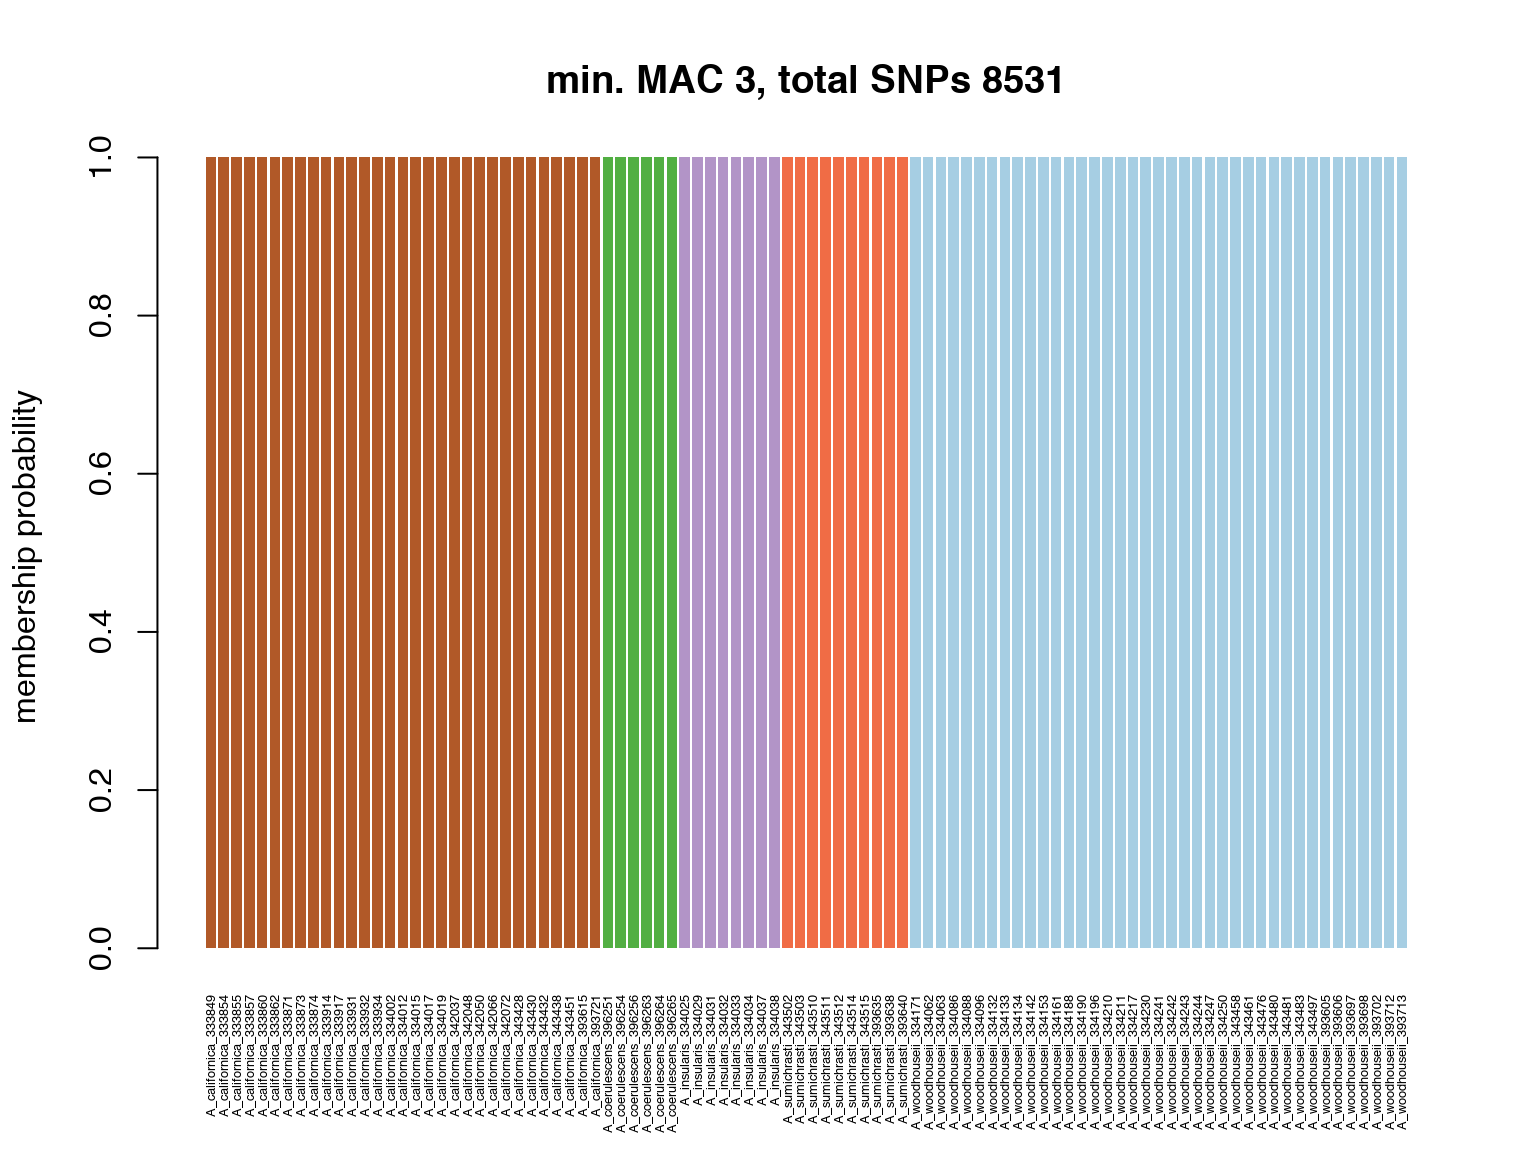
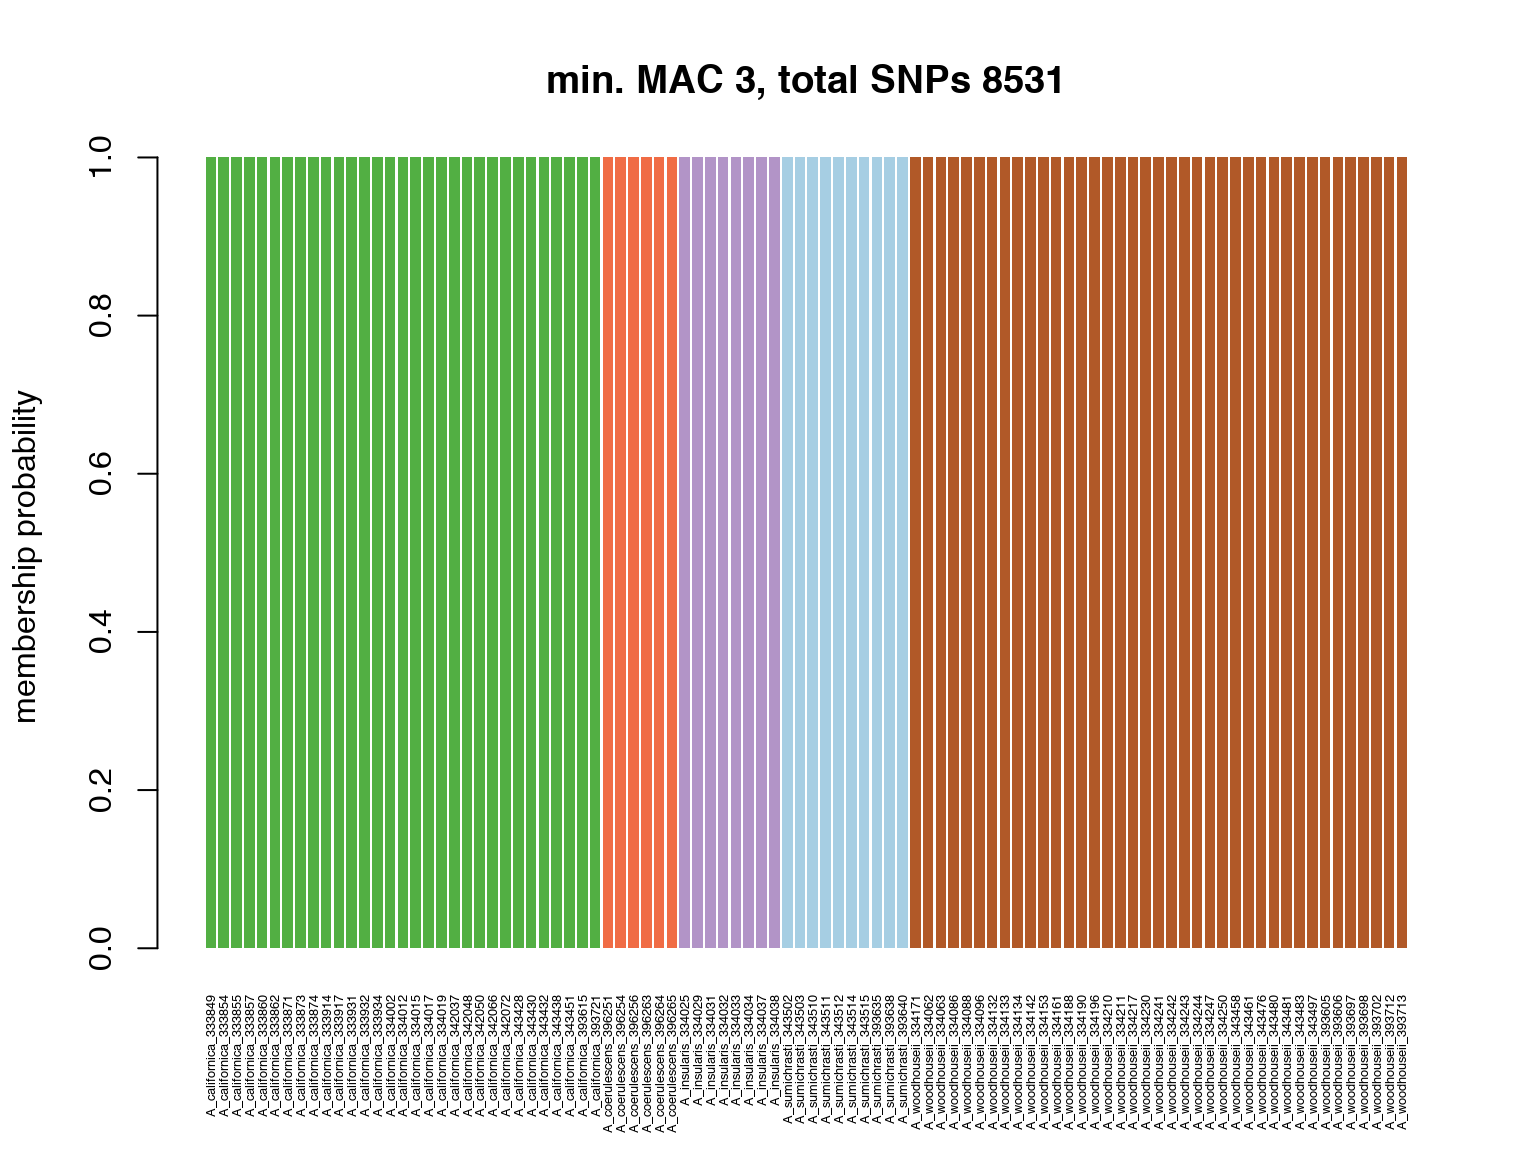
update website

diff --git a/docs/articles/filtering_vignette.html b/docs/articles/filtering_vignette.html
@@ -231,60 +231,60 @@ vcfR&lt;-missing.by.snp(vcfR, cutoff = .85)</code></pre>
 #&gt;            
 #&gt;              1  2  3  4  5
 #&gt;   californi  0 31  0  0  0
-#&gt;   coerulesc  6  0  0  0  0
-#&gt;   insularis  0  0  0  0  8
-#&gt;   sumichras  0  0  0 10  0
-#&gt;   woodhouse  0  0 39  0  0</code></pre>
+#&gt;   coerulesc  0  0  0  6  0
+#&gt;   insularis  0  0  8  0  0
+#&gt;   sumichras 10  0  0  0  0
+#&gt;   woodhouse  0  0  0  0 39</code></pre>
 <p><img src="filtering_vignette_files/figure-html/unnamed-chunk-11-2.png" width="768" style="display: block; margin: auto;"></p>
 <pre><code>#&gt; [1] "DAPC with min. MAC 1 and 16208 total SNPs, complete"
 #&gt; [1] "for 2 minimum MAC cutoff, compare k means clustering to popmap assignment"
 #&gt;            
 #&gt;              1  2  3  4  5
-#&gt;   californi  0  0  0  0 31
-#&gt;   coerulesc  0  6  0  0  0
-#&gt;   insularis  8  0  0  0  0
-#&gt;   sumichras  0  0  0 10  0
-#&gt;   woodhouse  0  0 39  0  0</code></pre>
+#&gt;   californi  0  0  0 31  0
+#&gt;   coerulesc  0  0  0  0  6
+#&gt;   insularis  0  0  8  0  0
+#&gt;   sumichras  0 10  0  0  0
+#&gt;   woodhouse 39  0  0  0  0</code></pre>
 <p><img src="filtering_vignette_files/figure-html/unnamed-chunk-11-3.png" width="768" style="display: block; margin: auto;"></p>
 <pre><code>#&gt; [1] "DAPC with min. MAC 2 and 11188 total SNPs, complete"
 #&gt; [1] "for 3 minimum MAC cutoff, compare k means clustering to popmap assignment"
 #&gt;            
 #&gt;              1  2  3  4  5
-#&gt;   californi  0  0  0  0 31
-#&gt;   coerulesc  0  6  0  0  0
+#&gt;   californi  0 31  0  0  0
+#&gt;   coerulesc  0  0  6  0  0
 #&gt;   insularis  0  0  0  8  0
-#&gt;   sumichras  0  0 10  0  0
-#&gt;   woodhouse 39  0  0  0  0</code></pre>
+#&gt;   sumichras 10  0  0  0  0
+#&gt;   woodhouse  0  0  0  0 39</code></pre>
 <p><img src="filtering_vignette_files/figure-html/unnamed-chunk-11-4.png" width="768" style="display: block; margin: auto;"></p>
 <pre><code>#&gt; [1] "DAPC with min. MAC 3 and 8531 total SNPs, complete"
 #&gt; [1] "for 4 minimum MAC cutoff, compare k means clustering to popmap assignment"
 #&gt;            
 #&gt;              1  2  3  4  5
-#&gt;   californi  0  0 31  0  0
+#&gt;   californi 27  0  4  0  0
 #&gt;   coerulesc  0  6  0  0  0
-#&gt;   insularis  8  0  0  0  0
-#&gt;   sumichras  0  0  0 10  0
+#&gt;   insularis  0  0  0  8  0
+#&gt;   sumichras  0  0  0  0 10
 #&gt;   woodhouse  0  0  0  0 39</code></pre>
 <p><img src="filtering_vignette_files/figure-html/unnamed-chunk-11-5.png" width="768" style="display: block; margin: auto;"></p>
 <pre><code>#&gt; [1] "DAPC with min. MAC 4 and 7052 total SNPs, complete"
 #&gt; [1] "for 5 minimum MAC cutoff, compare k means clustering to popmap assignment"
 #&gt;            
 #&gt;              1  2  3  4  5
-#&gt;   californi  0 31  0  0  0
-#&gt;   coerulesc  0  0  0  0  6
-#&gt;   insularis  0  0  0  8  0
+#&gt;   californi  0  0 31  0  0
+#&gt;   coerulesc  0  0  0  6  0
+#&gt;   insularis  0  0  0  0  8
 #&gt;   sumichras 10  0  0  0  0
-#&gt;   woodhouse  0  0 39  0  0</code></pre>
+#&gt;   woodhouse  0 39  0  0  0</code></pre>
 <p><img src="filtering_vignette_files/figure-html/unnamed-chunk-11-6.png" width="768" style="display: block; margin: auto;"></p>
 <pre><code>#&gt; [1] "DAPC with min. MAC 5 and 6023 total SNPs, complete"
 #&gt; [1] "for 10 minimum MAC cutoff, compare k means clustering to popmap assignment"
 #&gt;            
 #&gt;              1  2  3  4  5
 #&gt;   californi  0  0  0 31  0
-#&gt;   coerulesc  0  0  6  0  0
-#&gt;   insularis  8  0  0  0  0
-#&gt;   sumichras  0 10  0  0  0
-#&gt;   woodhouse  0  0  0  0 39</code></pre>
+#&gt;   coerulesc  0  6  0  0  0
+#&gt;   insularis  0  0  0  0  8
+#&gt;   sumichras 10  0  0  0  0
+#&gt;   woodhouse  0  0 39  0  0</code></pre>
 <p><img src="filtering_vignette_files/figure-html/unnamed-chunk-11-7.png" width="768" style="display: block; margin: auto;"></p>
 <pre><code>#&gt; [1] "DAPC with min. MAC 10 and 3555 total SNPs, complete"
 

diff --git a/docs/index.html b/docs/index.html
@@ -82,7 +82,7 @@
     <div class="license">
 <h2>License</h2>
 <ul class="list-unstyled">
-<li>`use_mit_license()`</li>
+<li>use_mit_license()</li>
 </ul>
 </div>
 <div class="developers">
